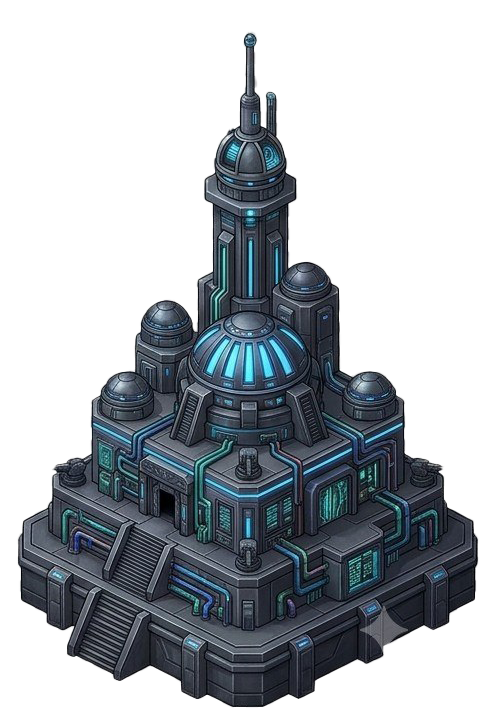
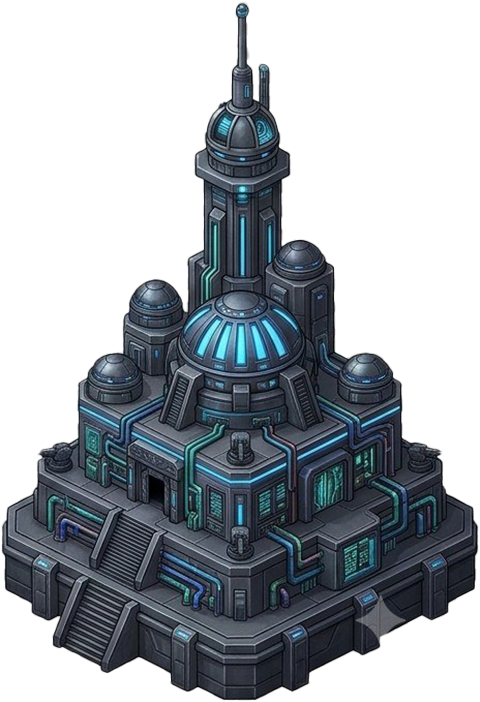
good-map

Changed region(s): [[0.0, 0.0, 1.0, 1.0]]

diff --git a/src/main/java/service/map/GameCanvasView.java b/src/main/java/service/map/GameCanvasView.java
@@ -20,13 +20,13 @@ public class GameCanvasView extends Canvas {
     private final Village village;
     private final GameMap gameMap;
 
-    private double tileWidth = 50;
-    private double tileHeight = 25;
+    private double tileWidth = 120;
+    private double tileHeight = 60;
     private double cameraX;
     private double cameraY;
 
-    private final double MIN_TILE_WIDTH = 15;
-    private final double MAX_TILE_WIDTH = 50;
+    private final double MIN_TILE_WIDTH = 10;
+    private final double MAX_TILE_WIDTH = 250;
 
     private final Image grassTile = new Image(Objects.requireNonNull(getClass().getResourceAsStream("/grass.png")));
     private final Image brownTree = new Image(Objects.requireNonNull(getClass().getResourceAsStream("/tree3.png")));
@@ -75,12 +75,12 @@ public class GameCanvasView extends Canvas {
 
         buildingGraphics.put(BuildingType.MAJOR_BUILDING, new BuildingGraphicProperties(
                 new Image(Objects.requireNonNull(getClass().getResourceAsStream("/major.png"))),
-                0.8,1.1, 0.72
+                1,1, 1//0.72
         ));
 
         buildingGraphics.put(BuildingType.RESEARCH_CENTER, new BuildingGraphicProperties(
                 new Image(Objects.requireNonNull(getClass().getResourceAsStream("/research_center.png"))),
-                1.2, 1.2, 0.72
+                /*1.2, 1.2*/1, 1, 1//0.72
         ));
         } catch(NullPointerException e) {
             System.err.println("Error loading building graphics: " + e.getMessage());
@@ -135,8 +135,8 @@ public class GameCanvasView extends Canvas {
                         double renderX = Math.floor(isoX);
                         double renderY = Math.floor(isoY);
 
-                        double renderWidth = tileWidth +12;
-                        double renderHeight = tileHeight + 12;
+                        double renderWidth = tileWidth +6;
+                        double renderHeight = tileHeight + 6;
 
                         gc.drawImage(grassTile, renderX, renderY, renderWidth, renderHeight);
                     }
@@ -152,72 +152,85 @@ public class GameCanvasView extends Canvas {
             }
         }
 
-        for (int r = 0; r < rows; r++) {
-            for (int c = cols - 1; c >= 0; c--) {
+        int maxDepth = (rows - 1) + (cols - 1);
 
-                double isoX = originX + (c - r) * (tileWidth / 2);
-                double isoY = originY + (c + r) * (tileHeight / 2);
+        for (int depth = 0; depth <= maxDepth; depth++) {
+            for (int r = 0; r <= depth; r++) {
+                int c = depth - r;
 
-                Tile tile = gameMap.getTile(r, c);
-                Tile.DecorateType deco = tile.getDecorateType();
 
-                if (deco != Tile.DecorateType.NONE) {
-                    Image currentImg = null;
-                    double wFactor = 1.0;
-                    double hFactor = 1.0;
+                if (r >= 0 && r < rows && c >= 0 && c < cols) {
 
-                    switch (deco) {
-                        case BROWN_TREE:
-                            currentImg = brownTree;
-                            wFactor = 2.0;
-                            hFactor = 4.0;
-                            break;
-                        case WHITE_TREE:
-                            currentImg = whiteTree;
-                            wFactor = 1.8;
-                            hFactor = 3.5;
-                            break;
+                    double currentTileWidth = tileWidth;
+                    double currentTileHeight = tileHeight;
+
+                    double isoX = originX + (c - r) * (currentTileWidth / 2.0);
+                    double isoY = originY + (c + r) * (currentTileHeight / 2.0);
+
+                    Tile tile = gameMap.getTile(r, c);
+
+                    // --- ۱. رسم درختها (DecorateType) ---
+                    Tile.DecorateType deco = tile.getDecorateType();
+                    if (deco != Tile.DecorateType.NONE) {
+                        Image currentImg = null;
+                        double wFactor = 1.0;
+                        double hFactor = 1.0;
+
+                        switch (deco) {
+                            case BROWN_TREE:
+                                currentImg = brownTree;
+                                wFactor = 2.0;
+                                hFactor = 4.0;
+                                break;
+                            case WHITE_TREE:
+                                currentImg = whiteTree;
+                                wFactor = 1.8;
+                                hFactor = 3.5;
+                                break;
+                        }
+
+                        if (currentImg != null) {
+                            double customWidth = currentTileWidth * wFactor;
+                            double customHeight = currentTileHeight * hFactor;
+
+                            double offsetX = isoX - (customWidth - currentTileWidth) / 2;
+                            double offsetY = isoY - (customHeight - currentTileHeight);
+
+                            gc.drawImage(currentImg, Math.round(offsetX), Math.round(offsetY), Math.round(customWidth), Math.round(customHeight));
+                        }
                     }
 
-                    if (currentImg != null) {
-                        double customWidth = tileWidth * wFactor;
-                        double customHeight = tileHeight * hFactor;
 
-                        double offsetX = isoX - (customWidth - tileWidth) / 2;
-                        double offsetY = isoY - (customHeight - tileHeight);
+                    if (tile.getBuilding() != null) {
+                        Building b = tile.getBuilding();
+                        Coordinate pos = b.getPosition();
 
-                        gc.drawImage(currentImg, offsetX, offsetY, customWidth, customHeight);
-                    }
-                }
+                        int bW = b.getWidth();
+                        int bH = b.getHeight();
 
+                        int bottomRow = pos.getX() + bH - 1;
+                        int bottomCol = pos.getY() + bW - 1;
 
-                if (tile.getBuilding() != null) {
-                    Building b = tile.getBuilding();
-                    Coordinate pos = b.getPosition();
+                        if (r == bottomRow && c == bottomCol) {
+                            BuildingGraphicProperties props = buildingGraphics.get(b.getType());
 
-                    if (pos.getX() == r && pos.getY() == c) {
-                        BuildingGraphicProperties props = buildingGraphics.get(b.getType());
+                            if (props != null && props.image != null) {
 
-                        if (props != null && props.image != null && !props.image.isError()) {
-                            int bW = b.getWidth();
-                            int bH = b.getHeight();
+                                double tileX = originX + (pos.getY() - pos.getX()) * (currentTileWidth / 2.0);
+                                double tileY = originY + (pos.getY() + pos.getX()) * (currentTileHeight / 2.0);
 
-                            int bottomRow = r + bH - 1;
-                            int bottomCol = c + bW - 1;
+                                double bottomX = tileX + ((bW - bH) * (currentTileWidth / 2.0));
+                                double bottomY = tileY + ((bW + bH) * (currentTileHeight / 2.0));
 
-                            double baseBottomX = originX + (bottomCol - bottomRow) * (tileWidth / 2);
-                            double baseBottomY = originY + (bottomCol + bottomRow) * (tileHeight / 2) + tileHeight;
+                                double zoomFactor = currentTileWidth / 120.0;
+                                double imgWidth = props.image.getWidth() * zoomFactor * props.widthScale;
+                                double imgHeight = props.image.getHeight() * zoomFactor * props.heightScale;
 
-                            double customWidth = tileWidth * Math.max(bW, bH) * 1.0 * props.widthScale;
+                                double offsetX = bottomX - (imgWidth / 2.0);
+                                double offsetY = bottomY - imgHeight;
 
-                            double imageRatio = props.image.getHeight() / props.image.getWidth();
-                            double customHeight = customWidth * imageRatio * props.heightScale;
-
-                            double offsetX = baseBottomX - (customWidth / 2);
-
-                            double offsetY = baseBottomY - (customHeight * props.yOffsetScale);
-
-                            gc.drawImage(props.image, offsetX, offsetY, customWidth, customHeight);
+                                gc.drawImage(props.image, Math.round(offsetX), Math.round(offsetY), Math.round(imgWidth), Math.round(imgHeight));
+                            }
                         }
                     }
                 }

diff --git a/src/main/java/service/map/GameMap.java b/src/main/java/service/map/GameMap.java
@@ -58,22 +58,29 @@ public class GameMap implements Serializable {
         return false;
     }
 
-    public boolean isAreaFree(int row, int column, int width, int height){
+    public boolean isAreaFree(int row, int column, int width, int height) {
 
-        if(!this.isInside(row, column))
+        if (!this.isInside(row, column))
             return false;
 
         if (!isInside(row + height - 1, column + width - 1))
             return false;
 
-        for (int i = row; i < row + height; i++) {
-            for (int j = column; j < column + width; j++) {
-                if(tiles[i][j].getBuilding() != null)
-                    return false;
+        int buffer = 1;
+
+        for (int i = row - buffer; i < row + height + buffer; i++) {
+            for (int j = column - buffer; j < column + width + buffer; j++) {
+
+                if (isInside(i, j)) {
+                    if (tiles[i][j].getBuilding() != null) {
+                        return false;
+                    }
+                }
             }
         }
         return true;
     }
+
 
     public boolean placeBuilding(Building building, int row, int column){
         if(!this.isInside(row, column))

diff --git a/src/main/java/model/resources/Resources.java b/src/main/java/model/resources/Resources.java
@@ -16,15 +16,15 @@ public class Resources implements Serializable {
     private int coin;
 
     public Resources() {
-        this.wood = 8000;
-        this.iron = 8000;
-        this.gunPowder = 8000;
-        this.stone = 8000;
-        this.dirtyWater = 8000;
-        this.dirtySoil = 8000;
-        this.cleanWater = 8000;
-        this.cleanSoil = 8000;
-        this.coin = 8000;
+        this.wood = 80000;
+        this.iron = 80000;
+        this.gunPowder = 80000;
+        this.stone = 80000;
+        this.dirtyWater = 80000;
+        this.dirtySoil = 80000;
+        this.cleanWater = 80000;
+        this.cleanSoil = 80000;
+        this.coin = 80000;
     }
 
 

diff --git a/src/main/java/model/building/BuildingType.java b/src/main/java/model/building/BuildingType.java
@@ -29,9 +29,9 @@ public enum BuildingType {
     BARRACKS(new Cost(10, 10, 10, 10,10,10,10, Duration.ofSeconds(2)),1, 1),
 
     LABORATORY(new Cost(10, 10, 10, 10,10,10,10, Duration.ofSeconds(2)),1, 1),
-    RESEARCH_CENTER(new Cost(10, 10, 10, 10,10,10,10, Duration.ofSeconds(2)),3, 3),
+    RESEARCH_CENTER(new Cost(10, 10, 10, 10,10,10,10, Duration.ofSeconds(2)),7, 7),
     ARMY_PRODUCER(new Cost(10, 10, 10, 10,10,10,10, Duration.ofSeconds(2)),1, 1),
-    MAJOR_BUILDING(new Cost(3000, 10, 10, 10,10,10,10, Duration.ofSeconds(2)),3, 3),
+    MAJOR_BUILDING(new Cost(3000, 10, 10, 10,10,10,10, Duration.ofSeconds(2)),4, 4),
     PURIFICATION(new Cost(10, 10, 10, 10,10,10,10, Duration.ofSeconds(2)),1, 1),
 
     CUSTOMHOUSE(new Cost(10, 10, 10, 10,10,10,10, Duration.ofSeconds(2)), 1, 1);

diff --git a/src/main/java/model/building/ResearchCenter.java b/src/main/java/model/building/ResearchCenter.java
@@ -13,7 +13,7 @@ public class ResearchCenter extends Building implements Serializable {
     private static final Map<Integer, UpgradeBuildingInfo> upgradeResearchBuildingsCost;
 
     public ResearchCenter(BuildingType type, Coordinate position) {
-        super(type, position, 3, 3);
+        super(type, position, 7, 7);
         this.scienceLevel = 1;
     }
 

diff --git a/src/main/java/model/village/Village.java b/src/main/java/model/village/Village.java
@@ -43,7 +43,7 @@ public class Village implements Serializable {
 
     private final Map<UUID, Plant> plants = new HashMap<>();
     private final ReentrantReadWriteLock lock = new ReentrantReadWriteLock();
-    private GameMap gameMap = new GameMap(100, 100, 20);
+    private GameMap gameMap = new GameMap(150, 150, 120);
 
 
     private final Map<UUID, Battle> activeBattles;